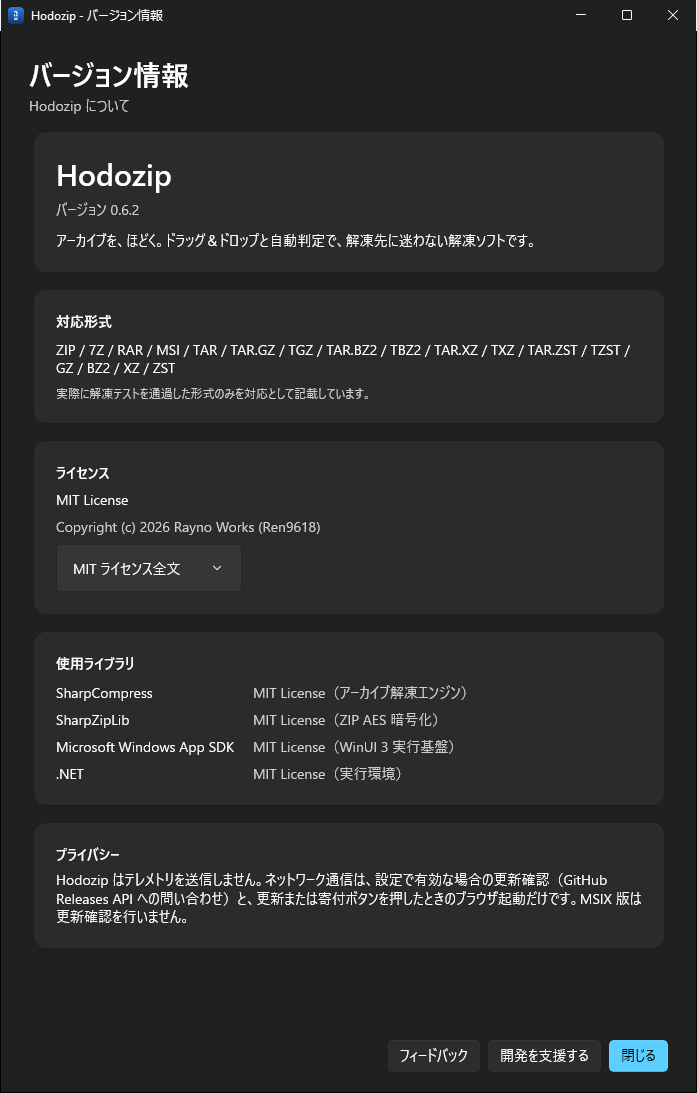
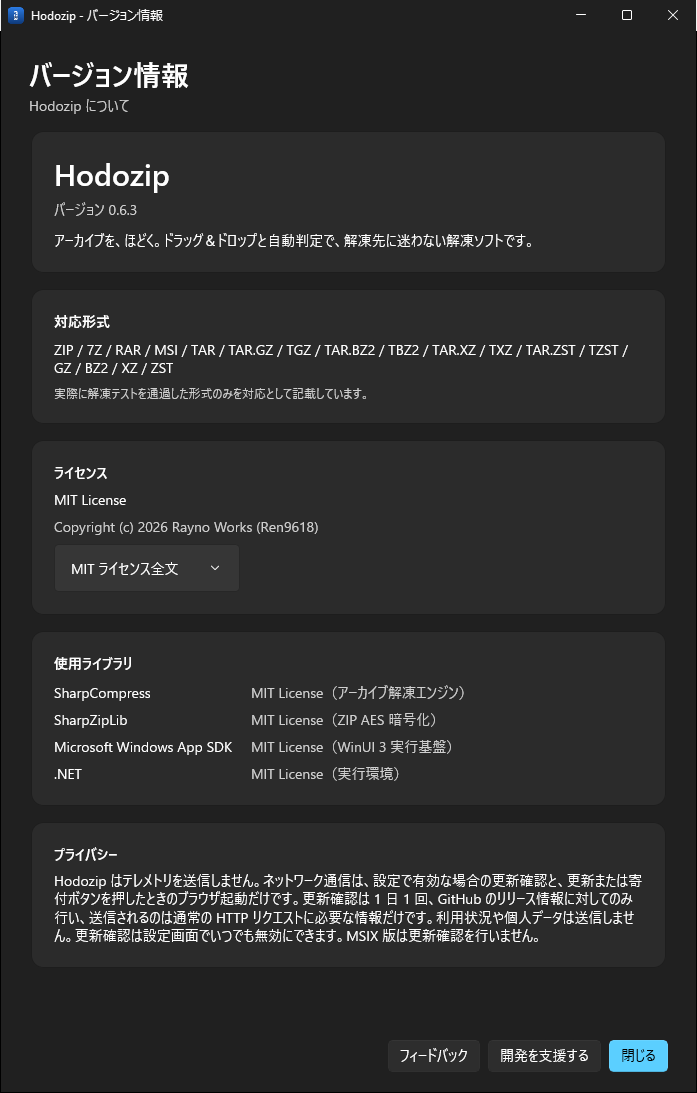
docs: update website for v0.6.3

diff --git a/docs/index.html b/docs/index.html
@@ -67,7 +67,7 @@
         <a class="btn btn-ghost" href="https://github.com/Ren9618/Hodozip">GitHub リポジトリを見る</a>
       </div>
       <ul class="hero-chips" aria-label="バージョンと動作環境">
-        <li class="chip-accent">現在のバージョン v0.6.2</li>
+        <li class="chip-accent">現在のバージョン v0.6.3</li>
         <li>Windows 10（19041 以降）/ Windows 11</li>
         <li>MIT ライセンス</li>
       </ul>
@@ -160,7 +160,7 @@
           <svg viewBox="0 0 24 24"><path d="M12 22s8-4 8-10V5l-8-3-8 3v7c0 6 8 10 8 10z"/></svg>
         </span>
         <h3>通信は更新確認のみ</h3>
-        <p>通常の解凍・圧縮はネットワーク通信を行いません。自動アップデートの確認時のみ GitHub Releases にアクセスし、設定画面で OFF にできます。テレメトリも広告もありません。</p>
+        <p>通常の解凍・圧縮はネットワーク通信を行いません。バージョンの自動確認は 1 日 1 回、GitHub のリリース情報に対してのみ行い、送信されるのは通常の HTTP リクエストに必要な情報だけです。利用状況や個人データは送信しません。更新確認は設定画面でいつでも無効にできます。テレメトリも広告もありません。</p>
       </li>
       <li class="card feature">
         <span class="feature-icon" aria-hidden="true">
@@ -189,7 +189,7 @@
 </section>
 
 <!-- =========================================
-     スクリーンショット（実機撮影: v0.6.2）
+     スクリーンショット（実機撮影: v0.6.3）
 ========================================= -->
 <section class="section" id="screenshots">
   <div class="container">
@@ -212,7 +212,7 @@
     </figure>
     <figure class="shot-frame has-image" style="margin-top: 16px;">
       <img class="shot" src="screenshots/about.png" width="697" height="1093"
-           alt="バージョン情報画面。バージョン 0.6.2・対応形式・ライセンスに加えて、画面下部に「フィードバック」と「開発を支援する」ボタンが表示されています。" loading="lazy">
+           alt="バージョン情報画面。バージョン 0.6.3・対応形式・ライセンスに加えて、画面下部に「フィードバック」と「開発を支援する」ボタンが表示されています。" loading="lazy">
     </figure>
     <figure class="shot-frame has-image" style="margin-top: 16px;">
       <img class="shot" src="screenshots/compression.png" width="746" height="813"
@@ -234,7 +234,7 @@
           <h3>インストーラー版</h3>
           <span class="badge">推奨</span>
         </div>
-        <p class="dl-file">Hodozip-0.6.2-setup.exe</p>
+        <p class="dl-file">Hodozip-0.6.3-setup.exe</p>
         <ul class="dl-list">
           <li>管理者権限不要で、ユーザーごとに <code>%LOCALAPPDATA%\Programs\Hodozip</code> へインストールします</li>
           <li>スタートメニューのショートカットを作成し、任意で右クリックメニューと「プログラムから開く」への登録を行います</li>
@@ -247,7 +247,7 @@
           <h3>zip 版</h3>
           <span class="badge">ポータブル</span>
         </div>
-        <p class="dl-file">Hodozip-0.6.2-win-x64.zip</p>
+        <p class="dl-file">Hodozip-0.6.3-win-x64.zip</p>
         <ul class="dl-list">
           <li>解凍して <code>Hodozip.exe</code> を起動するだけで使えます（インストール不要）</li>
           <li>アーカイブのドラッグ＆ドロップやパス指定で解凍</li>
@@ -259,7 +259,7 @@
           <h3>MSIX 版</h3>
           <span class="badge badge-warn">実験的な配布</span>
         </div>
-        <p class="dl-file">Hodozip-0.6.2.msix</p>
+        <p class="dl-file">Hodozip-0.6.3.msix</p>
         <ul class="dl-list">
           <li>対応アーカイブのファイル関連付け候補と Windows 11 の右クリックメニューが登録されます</li>
           <li>インストール前に<strong>自己署名証明書の登録</strong>が必要です（手順は「使い方」のセクション）</li>
@@ -296,7 +296,7 @@
       <h3>1. インストールして起動する</h3>
       <h4>インストーラー版（推奨）</h4>
       <ol>
-        <li><code>Hodozip-0.6.2-setup.exe</code> をダウンロードして実行します。未署名のため、SmartScreen の警告が表示された場合は「詳細情報」→「実行」を選びます。</li>
+        <li><code>Hodozip-0.6.3-setup.exe</code> をダウンロードして実行します。未署名のため、SmartScreen の警告が表示された場合は「詳細情報」→「実行」を選びます。</li>
         <li>インストール先は <code>%LOCALAPPDATA%\Programs\Hodozip</code> 固定です。「シェル統合」で右クリックメニューと「プログラムから開く」への登録を選べます（いずれも任意、既定で有効）。</li>
         <li>インストール後、スタートメニューの「Hodozip」から起動します。アンインストールは「設定」→「アプリ」→「インストールされているアプリ」から行えます。</li>
       </ol>
@@ -309,14 +309,14 @@
       <h4>MSIX 版（実験的配布）</h4>
       <p>「証明書 → パッケージ」の順でインストールします。詳しい手順とアンインストール方法は、README の「<a class="inline-link" href="https://github.com/Ren9618/Hodozip#msix-版のインストール上級者向け実験的">MSIX 版のインストール</a>」を参照してください。</p>
       <ol>
-        <li>公開証明書 <a class="inline-link" href="https://github.com/Ren9618/Hodozip/raw/v0.6.2/packaging/certs/Hodozip-Test.cer">Hodozip-Test.cer</a> をダウンロードします。</li>
+        <li>公開証明書 <a class="inline-link" href="https://github.com/Ren9618/Hodozip/raw/v0.6.3/packaging/certs/Hodozip-Test.cer">Hodozip-Test.cer</a> をダウンロードします。</li>
         <li>管理者権限の PowerShell で証明書を登録します。</li>
       </ol>
       <pre><code>certutil -addstore -f TrustedPeople .\Hodozip-Test.cer</code></pre>
       <ol start="3">
-        <li>GitHub Releases から <code>Hodozip-0.6.2.msix</code> をダウンロードしてインストールします。</li>
+        <li>GitHub Releases から <code>Hodozip-0.6.3.msix</code> をダウンロードしてインストールします。</li>
       </ol>
-      <pre><code>Add-AppxPackage -Path .\Hodozip-0.6.2.msix</code></pre>
+      <pre><code>Add-AppxPackage -Path .\Hodozip-0.6.3.msix</code></pre>
       <p class="note">ダブルクリックで解凍できるようにするには、次の「既定のアプリ」設定が必要です。</p>
     </article>
 
@@ -361,7 +361,7 @@
         <li><strong>zip 版</strong> — Release ページを開きます。ダウンロード後は手動で配置を置き換えてください。</li>
         <li><strong>MSIX 版</strong> — 自動アップデートは無効です。Store または手動で更新してください。</li>
       </ul>
-      <p>設定画面の「起動時に更新を確認する」で ON / OFF を切り替えられます（既定 ON）。</p>
+      <p>設定画面の「起動時に更新を確認する」で ON / OFF を切り替えられます（既定 ON）。確認時に送信されるのは通常の HTTP リクエストに必要な情報だけで、利用状況や個人データは送信しません。</p>
     </article>
   </div>
 </section>

diff --git a/docs/en/index.html b/docs/en/index.html
@@ -66,7 +66,7 @@
         <a class="btn btn-ghost" href="https://github.com/Ren9618/Hodozip">View on GitHub</a>
       </div>
       <ul class="hero-chips" aria-label="Version and requirements">
-        <li class="chip-accent">Current version v0.6.2</li>
+        <li class="chip-accent">Current version v0.6.3</li>
         <li>Windows 10 (19041+) / Windows 11</li>
         <li>MIT License</li>
       </ul>
@@ -159,7 +159,7 @@
           <svg viewBox="0 0 24 24"><path d="M12 22s8-4 8-10V5l-8-3-8 3v7c0 6 8 10 8 10z"/></svg>
         </span>
         <h3>Network access only for update checks</h3>
-        <p>Normal extraction and compression do not use the network. Hodozip contacts GitHub Releases only when checking for updates, and you can disable this in Settings. There is no telemetry or advertising.</p>
+        <p>Normal extraction and compression do not use the network. The automatic update check runs at most once a day and queries GitHub release information only. It sends only the information required for a normal HTTP request; no usage or personal data is sent. You can disable update checks at any time in Settings. There is no telemetry or advertising.</p>
       </li>
       <li class="card feature">
         <span class="feature-icon" aria-hidden="true">
@@ -188,7 +188,7 @@
 </section>
 
 <!-- =========================================
-     Screenshots (captured on v0.6.2)
+     Screenshots (captured on v0.6.3)
 ========================================= -->
 <section class="section" id="screenshots">
   <div class="container">
@@ -211,7 +211,7 @@
     </figure>
     <figure class="shot-frame has-image" style="margin-top: 16px;">
       <img class="shot" src="../screenshots/about.png" width="697" height="1093"
-           alt="About window showing version 0.6.2, supported formats, and licenses, with &quot;Feedback&quot; and &quot;Support development&quot; buttons at the bottom." loading="lazy">
+           alt="About window showing version 0.6.3, supported formats, and licenses, with &quot;Feedback&quot; and &quot;Support development&quot; buttons at the bottom." loading="lazy">
     </figure>
     <figure class="shot-frame has-image" style="margin-top: 16px;">
       <img class="shot" src="../screenshots/compression.png" width="746" height="813"
@@ -233,7 +233,7 @@
           <h3>Installer build</h3>
           <span class="badge">Recommended</span>
         </div>
-        <p class="dl-file">Hodozip-0.6.2-setup.exe</p>
+        <p class="dl-file">Hodozip-0.6.3-setup.exe</p>
         <ul class="dl-list">
           <li>Installs per user into <code>%LOCALAPPDATA%\Programs\Hodozip</code> without administrator rights</li>
           <li>Creates a Start menu shortcut and optionally registers the context menu and "Open with" candidates</li>
@@ -246,7 +246,7 @@
           <h3>zip build</h3>
           <span class="badge">Portable</span>
         </div>
-        <p class="dl-file">Hodozip-0.6.2-win-x64.zip</p>
+        <p class="dl-file">Hodozip-0.6.3-win-x64.zip</p>
         <ul class="dl-list">
           <li>Extract the archive and launch <code>Hodozip.exe</code>; no installation required</li>
           <li>Extract by dragging and dropping an archive or by passing a path</li>
@@ -258,7 +258,7 @@
           <h3>MSIX build</h3>
           <span class="badge badge-warn">Experimental</span>
         </div>
-        <p class="dl-file">Hodozip-0.6.2.msix</p>
+        <p class="dl-file">Hodozip-0.6.3.msix</p>
         <ul class="dl-list">
           <li>Registers file-association candidates for supported archives and the Windows 11 context menu</li>
           <li><strong>Requires registering the self-signed certificate</strong> before installation (see the How to use section)</li>
@@ -295,7 +295,7 @@
       <h3>1. Install and launch</h3>
       <h4>Installer build (recommended)</h4>
       <ol>
-        <li>Download and run <code>Hodozip-0.6.2-setup.exe</code>. It is unsigned; if SmartScreen shows a warning, choose "More info" → "Run".</li>
+        <li>Download and run <code>Hodozip-0.6.3-setup.exe</code>. It is unsigned; if SmartScreen shows a warning, choose "More info" → "Run".</li>
         <li>The install location is fixed to <code>%LOCALAPPDATA%\Programs\Hodozip</code>. Under "Shell integration" you can optionally register the context menu and "Open with" candidates (both enabled by default).</li>
         <li>Launch Hodozip from the Start menu after installation. Uninstall it from Settings → Apps → Installed apps.</li>
       </ol>
@@ -308,14 +308,14 @@
       <h4>MSIX build (experimental)</h4>
       <p>Install the certificate first, then the package. For detailed steps and uninstallation, see "<a class="inline-link" href="https://github.com/Ren9618/Hodozip/blob/main/README.en.md#msix-installation-advanced-experimental">MSIX installation</a>" in the README.</p>
       <ol>
-        <li>Download the public certificate <a class="inline-link" href="https://github.com/Ren9618/Hodozip/raw/v0.6.2/packaging/certs/Hodozip-Test.cer">Hodozip-Test.cer</a>.</li>
+        <li>Download the public certificate <a class="inline-link" href="https://github.com/Ren9618/Hodozip/raw/v0.6.3/packaging/certs/Hodozip-Test.cer">Hodozip-Test.cer</a>.</li>
         <li>Register the certificate in an elevated PowerShell window.</li>
       </ol>
       <pre><code>certutil -addstore -f TrustedPeople .\Hodozip-Test.cer</code></pre>
       <ol start="3">
-        <li>Download <code>Hodozip-0.6.2.msix</code> from GitHub Releases and install it.</li>
+        <li>Download <code>Hodozip-0.6.3.msix</code> from GitHub Releases and install it.</li>
       </ol>
-      <pre><code>Add-AppxPackage -Path .\Hodozip-0.6.2.msix</code></pre>
+      <pre><code>Add-AppxPackage -Path .\Hodozip-0.6.3.msix</code></pre>
       <p class="note">To extract by double-clicking, configure Hodozip as the default app as described in the next section.</p>
     </article>
 
@@ -360,7 +360,7 @@
         <li><strong>zip build</strong> — opens the Release page. Replace the files manually after downloading.</li>
         <li><strong>MSIX build</strong> — automatic updates are disabled. Update through the Store or manually.</li>
       </ul>
-      <p>You can turn update checks on or off with "Check for updates at startup" in Settings (on by default).</p>
+      <p>You can turn update checks on or off with "Check for updates at startup" in Settings (on by default). The check sends only the information required for a normal HTTP request; no usage or personal data is sent.</p>
     </article>
   </div>
 </section>
